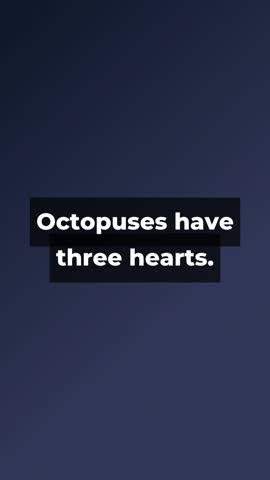
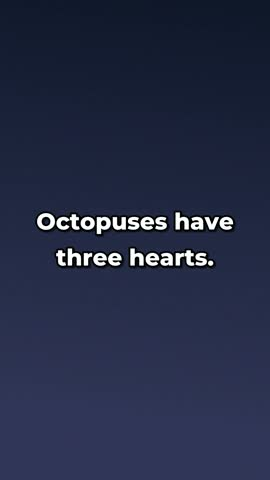
Text templates prefer plain backgrounds over the GPU; slide writers know when AI pictures are allowed
From a live test: a text-overlay reel's writer chose a generated (GPU) background
for every beat, and a carousel without AI pictures said its visuals were
AI-generated. Text beats now have a clean outline and shadow instead of per-line
boxes, text-only slides sit centred, and the screens quote what an AI picture
really costs with gpt-image-2 (about Rs 3.5, not 1.3).

Changed region(s): [[0.0889, 0.4062, 0.8889, 0.5938]]

diff --git a/apps/web/app/(app)/library/library-forms.tsx b/apps/web/app/(app)/library/library-forms.tsx
@@ -221,9 +221,9 @@ function LookFields({ t, params }: { t: TemplateInfo; params: Record<string, unk
                                 [String(s.count[0] + i), `Exactly ${s.count[0] + i}`])]} />
           )}
           <Select name="ai_images" label="AI pictures" value={p("ai_images")}
-                  options={[["", "Template default — the cover only"], ["cover", "The cover only (about ₹1.3)"],
-                            ["all", "Any slide that needs one (about ₹1.3 each)"], ["none", "Never"]]}
-                  hint="Used only where the post has no picture of its own." />
+                  options={[["", "Template default — the cover only"], ["cover", "The cover only"],
+                            ["all", "Any slide that needs one"], ["none", "Never"]]}
+                  hint="Used only where the post has no picture of its own. Each costs what your image model charges (about ₹3.5 with gpt-image-2 at medium quality)." />
         </>
       )}
       {video && (

diff --git a/apps/web/app/(app)/discover/deck.tsx b/apps/web/app/(app)/discover/deck.tsx
@@ -449,7 +449,7 @@ export function Deck({ picker, daily, cards, looking, channel, categories, forma
                     + "whoever made it — only if you're comfortable publishing it." },
                 { id: "ai", title: "Make an AI version",
                   note: what === "picture"
-                    ? "A new picture of the same scene, drawn by OpenAI in your channel's look (about ₹1.3). The original is never shown."
+                    ? "A new picture of the same scene, drawn by OpenAI in your channel's look (about ₹3.5 with gpt-image-2). The original is never shown."
                     : "Its moments recreated on the GPU, labelled “AI reconstruction”. The original is never shown." },
               ];
               return (

diff --git a/apps/web/app/(app)/posts/[id]/page.tsx b/apps/web/app/(app)/posts/[id]/page.tsx
@@ -529,7 +529,7 @@ async function SlidesPanel({ post }: { post: PostRow }) {
       <section className={box}>
         <h2 className="font-medium">Ready to make the slides</h2>
         <p className="text-muted">The slides for Instagram and a slideshow Short for YouTube — on the server, no GPU
-          (an AI picture, if the script asks for one, costs about ₹1.3).</p>
+          (an AI picture, if the script asks for one, costs what your image model charges — about ₹3.5 with gpt-image-2).</p>
         <RenderButton postId={post.id} retry={post.status === "failed"} label={post.status === "failed" ? "Try again" : "Make the slides"} />
       </section>
     );

diff --git a/worker/corpus/handlers/write_script.py b/worker/corpus/handlers/write_script.py
@@ -156,7 +156,8 @@ def run(ctx: JobContext) -> dict:
              and look.music_source_mode == "licensed_asset")
     if as_slides:
         system = (_system_prompt(st, target, revision, "none", speed, fmt, carousel_.count_hint(look))
-                  + footage_.picture_section(footage) + "\n\n" + t.guide + _music_section(music))
+                  + footage_.picture_section(footage) + _ai_pictures_note(look.ai_images) + "\n\n" + t.guide
+                  + _music_section(music))
         writer = CAROUSEL_FACTORY(key)
 
         def tidy(o):
@@ -273,6 +274,14 @@ def sources_note(research: dict | None) -> str:
     parts = [f"### {a['site']} — {a.get('title') or a['url']}\n{a['text'][:per]}" for a in articles]
     return ("\n\n## What the sources report (the only facts you may use; attribute claims to them)\n"
             + "\n\n".join(parts))
+
+
+def _ai_pictures_note(mode: str) -> str:
+    """What this format allows of AI pictures, so the writer (and its caption) never claims otherwise."""
+    return {"none": "\n\nThis format draws no AI pictures: never use \"ai_image\", and never say the visuals are "
+                    "AI-generated.",
+            "cover": "\n\nThis format draws an AI picture for the first slide only, when it has no picture of its own.",
+            "all": "\n\nThis format may draw an AI picture for any slide that has no picture of its own."}[mode]
 
 
 def _music_section(available: bool) -> str:

diff --git a/worker/corpus/media/overlays.py b/worker/corpus/media/overlays.py
@@ -75,7 +75,7 @@ def styles(look) -> list[str]:
                 f"100,100,0,0,{border},{outline},{shadow},{align},{m},{m},{mv},1")
     return [
         st("Head", 66, white, "&H00000000", "&H96000000", 1, 6, 3, 8, 300),
-        st("Beat", 92, white, "&H5A000000", "&H00000000", 3, 26, 0, 5, 0),
+        st("Beat", 92, white, "&H00000000", "&H82000000", 1, 7, 5, 5, 0),
         st("Chip", 42, "&H00FFFFFF", accent, "&H00000000", 3, 14, 0, 7, 0),
         st("Rank", 150, accent, "&H00000000", "&H96000000", 1, 8, 4, 7, 0),
         st("Kin", KINETIC, white, "&H00000000", "&H96000000", 1, 9, 4, 5, 0),
@@ -109,7 +109,7 @@ def beat(text: str, look, seconds: float, split: bool) -> list[str]:
     if not text.strip():
         return []
     heavy = tx.heavy(look.font)
-    width = W - 2 * look.safe_margin_px - 52            # the box's padding
+    width = W - 2 * look.safe_margin_px
     got = _fitted(text, heavy, BEAT, width) or _fitted(text, heavy, {**BEAT, "min_size": 44, "max_lines": 7}, width)
     if got is None:
         return []

diff --git a/worker/corpus/media/slides.py b/worker/corpus/media/slides.py
@@ -122,7 +122,10 @@ def plan(slide: dict, idx: int, total: int, layout: str, aspect: str, font_name:
     h = _fit("heading", heading, heavy, sizes=(86, 50), width=width, lines=4, height_=H * 0.36)
     yb = top + 20 + _block(h, heavy) + 30
     b = _fit("body", text, body, sizes=(48, 30), width=width, lines=12, height_=bottom - yb)
-    return Plan(None, False, h, (M, top + 20), b, (M, int(yb)), True)
+    # A text-only slide: the words centred in the space between the counter and the footer.
+    block = _block(h, heavy) + (30 + _block(b, body) if b else 0)
+    y0 = max(top + 20, int(top + (bottom - top - block) / 2))
+    return Plan(None, False, h, (M, y0), b, (M, int(y0 + _block(h, heavy) + 30)), True)
 
 
 # ── drawing ───────────────────────────────────────────────────────────────────

diff --git a/prompts/templates/full_screen_text_overlay.md b/prompts/templates/full_screen_text_overlay.md
@@ -4,4 +4,7 @@ has `text`: one beat, at most 12 words, drawn large in the middle of the screen,
 whole shot (give each shot about 1 second per 3 words, at least 2.5 s). Shot 1 is `role` "hook",
 the middle shots "beat", the last "reveal". The picture behind is calm and readable — a slow
 setting, a texture, a stock scene, or "plain" (the format's own background colour) — and never
-puts important action where the words are. Without narration, the beats alone must tell it.
+puts important action where the words are. Use "plain" for most beats unless the footage list or
+stock has a fitting picture: a "generate" background renders on the GPU (slow and paid), so use at
+most one, for the hook, and only if it adds something. Without narration, the beats alone must
+tell it.

diff --git a/prompts/templates/kinetic_typography.md b/prompts/templates/kinetic_typography.md
@@ -3,4 +3,5 @@ The words are the visual. Hook phrase → rhythmic progression → an emphasis o
 line. With narration, the spoken words animate onto the screen as they are said. Without it, each
 shot's `text` is what animates (at most 14 words a shot; about 2.5 words a second), so write it
 in short punchy phrases and put the word to stress in CAPITALS (it is drawn in the accent
-colour). Backgrounds stay quiet: "plain" (the format's colour) or a slow, dark stock texture.
+colour). Backgrounds stay quiet: "plain" (the format's colour) for almost every shot, or a slow,
+dark stock texture; a "generate" background renders on the GPU (slow and paid) — at most one.
